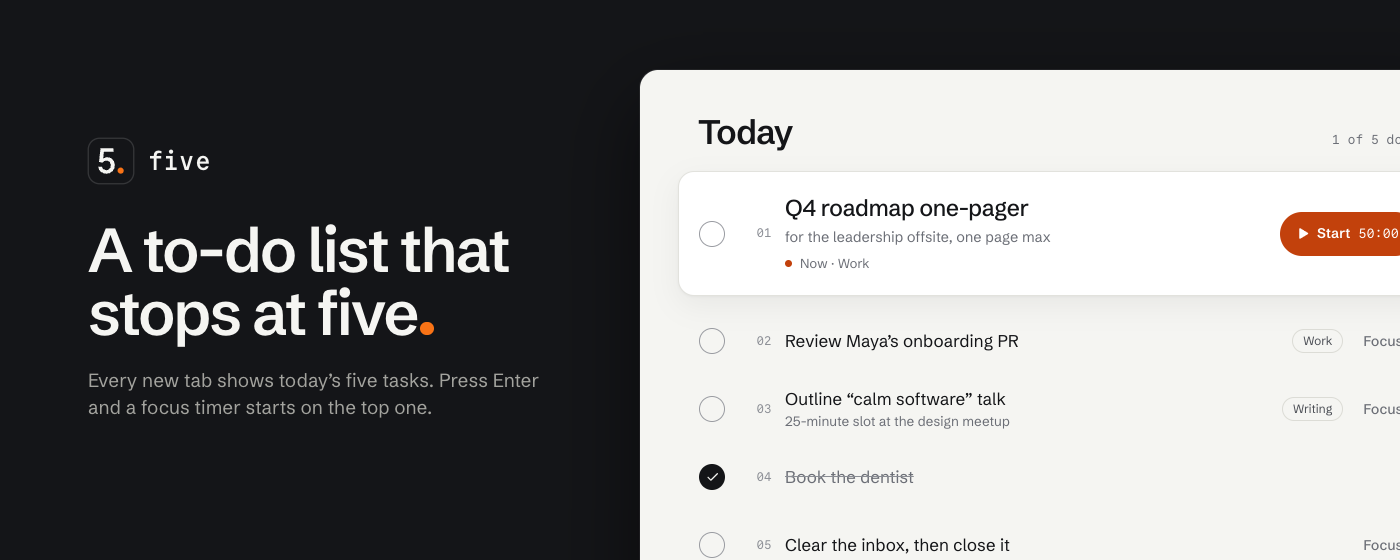
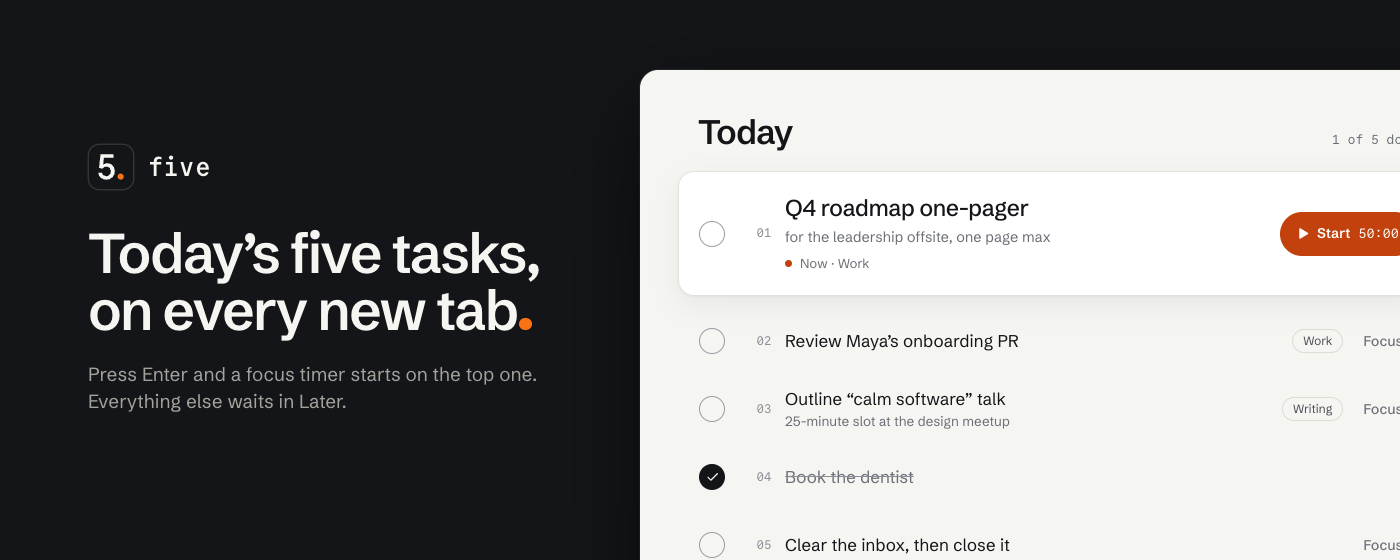
Rename to Focus Five: New Tab To-Do List and refresh promo tiles (1.7.1)

Changed region(s): [[0.0614, 0.3946, 0.3993, 0.6071], [0.0614, 0.6375, 0.3993, 0.7589], [0.0614, 0.2429, 0.1536, 0.3339]]

diff --git a/manifest.config.ts b/manifest.config.ts
@@ -2,10 +2,10 @@ import { defineManifest } from '@crxjs/vite-plugin';
 
 export default defineManifest({
   manifest_version: 3,
-  name: 'Focus Five - a to-do list that stops at five',
+  name: 'Focus Five: New Tab To-Do List',
   short_name: 'Focus Five',
-  description: 'Replaces your new tab with today’s five tasks and a focus timer. Anything else waits in Later or Ideas.',
-  version: '1.7.0',
+  description: 'Shows today’s five tasks on every new tab, with a focus timer and optional site blocking. Everything else waits in Later.',
+  version: '1.7.1',
   icons: {
     16: 'icons/icon-16.png',
     32: 'icons/icon-32.png',

diff --git a/store/LISTING.md b/store/LISTING.md
@@ -1,13 +1,13 @@
 # Chrome Web Store submission: Focus Five
 
-Everything the Developer Dashboard asks for, in the order it asks. Upload `release/five-extension-v1.7.0.zip` as the package.
+Everything the Developer Dashboard asks for, in the order it asks. Upload `release/five-extension-v1.7.1.zip` as the package.
 
 ## Store listing tab
 
-**Name** (comes from the manifest): Focus Five - a to-do list that stops at five
+**Name** (comes from the manifest): Focus Five: New Tab To-Do List
 
-**Summary** (from the manifest, 103 of 132 characters):
-Replaces your new tab with today’s five tasks and a focus timer. Anything else waits in Later or Ideas.
+**Summary** (from the manifest, 121 of 132 characters):
+Shows today’s five tasks on every new tab, with a focus timer and optional site blocking. Everything else waits in Later.
 
 **Category:** Productivity → Workflow & Planning
 
